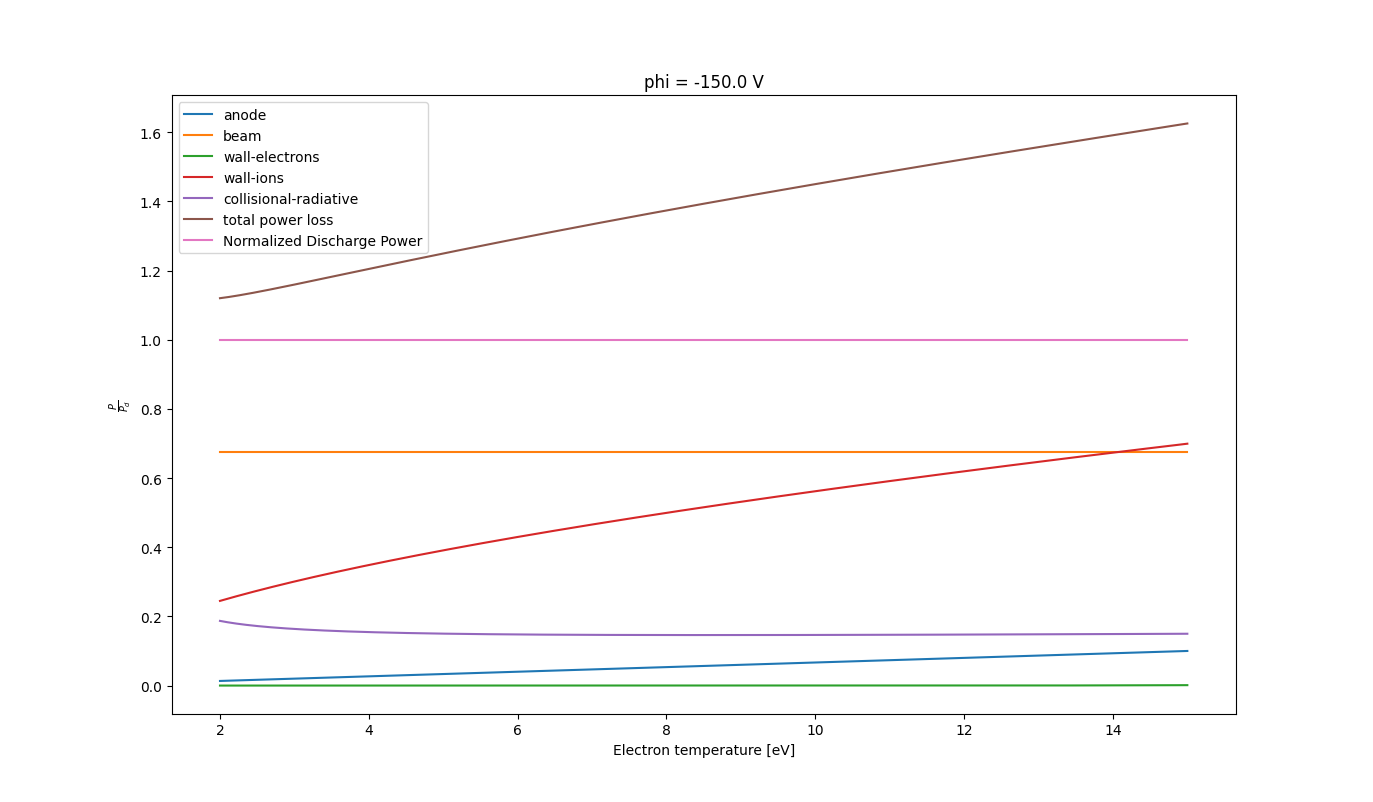
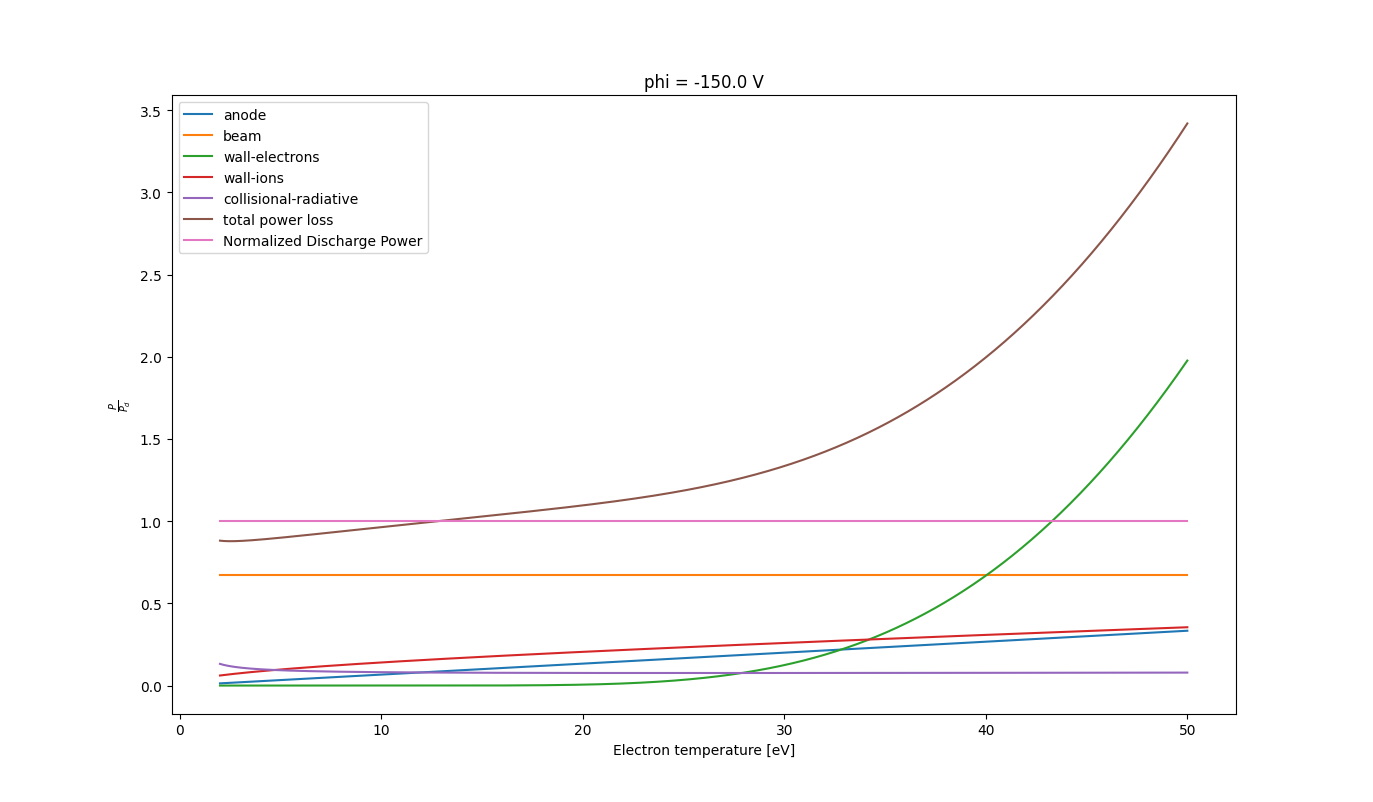
Last Stage for Problem 2

diff --git a/final/main_aa529final.py b/final/main_aa529final.py
@@ -9,6 +9,85 @@ import numpy as np
 import matplotlib.pyplot as plt
 """ Problem 2 """
 phiS_minus_phiP = np.asarray([-50.0,-100.0,-150.0,-200.0]) # [V] - electrostatic potential difference between sheath (S) and plasma (P)
-Te = np.asarray([5.5, 1.0, 1.0, 1.0]) # [eV] - determined empirically
+Te = np.asarray([12.5, 16.5, 12.5, 10.0]) # [eV] - determined empirically
+
+k_B = 1.38e-23 # [J/degK]
+e = 1.6e-19
+
+eV_to_degK = 11600.0 # 1 eV = this many degK
+Joules_to_eV = (1.0/1.6)*(1.0e19)
+amu_to_kg = 1.67e-27
+cm_to_m = 1.0e-2
+
+m_e = 9.11e-31 # [kg]
+m_i = 131.0*amu_to_kg # [kg]<-[amu] Xenon atomic mass
+n_s = 0.25e12/(cm_to_m**3) # [m^-3]<-[cm^-3] Quasineutral sheath density
+
+r_out = 7.0*cm_to_m # [m]<-[cm]
+r_in = 3.0*cm_to_m # [m]<-[cm]
+L = 4.0*cm_to_m # [m]<-[cm] Length of the plasma channel
+A_w = 2.0*np.pi*L*(r_in + r_out) # [m] Total area of the wall
+
+eta_current = 0.75
+eta_voltage = 0.90
+I_d = 10.0 # [A]
+V_d = 300.0 # [V]
+I_b = eta_current*I_d
+V_b = eta_voltage*V_d
+P_d = I_d * V_b
+
+P_we = np.zeros(phiS_minus_phiP.size)
+P_wi = np.zeros(phiS_minus_phiP.size)
+P_w = np.zeros(phiS_minus_phiP.size)
+E_ions = np.zeros(phiS_minus_phiP.size)
+
+idx = 0
+Te_vs_Phi = plt.figure()
+Pwe_vs_Phi = plt.figure()
+Pwi_vs_Phi = plt.figure()
+Pw_vs_Phi = plt.figure()
+Eion_vs_Phi = plt.figure()
+for phi in phiS_minus_phiP:
+    v_is = np.sqrt((k_B*eV_to_degK*Te[idx])/m_i)
+    P_we[idx] = 0.25*np.sqrt((8.0*k_B*eV_to_degK*Te[idx])/(np.pi*m_e))*n_s*A_w \
+    *np.exp((e*phi)/(k_B*eV_to_degK*Te[idx]))*2.0*k_B*eV_to_degK*Te[idx]
+    P_wi[idx] = n_s*v_is*A_w*(0.5*m_i*v_is**2 - e*phi)
+    P_we[idx] = P_we[idx]/P_d
+    P_wi[idx] = P_wi[idx]/P_d
+    P_w[idx] = P_we[idx] + P_wi[idx]
+    E_ions[idx] = Joules_to_eV*k_B*eV_to_degK*Te[idx]*(0.5 + np.log(np.sqrt((2.0*m_i)/(np.pi*m_e))))
+
+plt.figure(Te_vs_Phi.number)
+plt.scatter(phiS_minus_phiP,Te)
+plt.xlabel('$\phi_{s} - \phi_{p}$ [V]')
+plt.ylabel('Electron Temperature [eV]')
+plt.title('Electron Temperature')
+
+plt.figure(Pwe_vs_Phi.number)
+plt.scatter(phiS_minus_phiP,P_we)
+plt.xlabel('$\phi_{s} - \phi_{p}$ [V]')
+plt.ylabel('$\\frac{P_{w,e}}{P_{d}}$')
+plt.title('Wall loss - electrons')
+
+plt.figure(Pwi_vs_Phi.number)
+plt.scatter(phiS_minus_phiP,P_wi)
+plt.xlabel('$\phi_{s} - \phi_{p}$ [V]')
+plt.ylabel('$\\frac{P_{w,i}}{P_{d}}$')
+plt.title('Wall loss - ions')
+
+plt.figure(Pw_vs_Phi.number)
+plt.scatter(phiS_minus_phiP,P_w)
+plt.xlabel('$\phi_{s} - \phi_{p}$ [V]')
+plt.ylabel('$\\frac{P_{w}}{P_{d}}$')
+plt.title('Total Wall losses')
+
+print(E_ions)
+plt.figure(Eion_vs_Phi.number)
+plt.scatter(phiS_minus_phiP,E_ions)
+plt.xlabel('$\phi_{s} - \phi_{p}$ [V]')
+plt.ylabel('Ion energy [eV]')
+plt.title('Energy of wall bombardment')
 
 """ Problem 3 """
+
+plt.show()

diff --git a/final/test_aa529final.py b/final/test_aa529final.py
@@ -19,11 +19,11 @@ amu_to_kg = 1.67e-27 # 1 amu = this many kg
 
 # phiS_minus_phiP = np.asarray([-50.0,-100.0,-150.0,-200.0]) # [V]
 phiS_minus_phiP = np.asarray([-200.0]) # <- Debugging why the total power explodes
-Te = np.linspace(2.0,15.0,1000) # [eV] thermal energy of the electrons
+Te = np.linspace(2.0,50.0,1000) # [eV] thermal energy of the electrons
 
 m_e = 9.11e-31 # [kg]
 m_i = 131.0*amu_to_kg # [kg]<-[amu] Xenon atomic mass
-n_s = 1.0e12/(cm_to_m**3) # [m^-3]<-[cm^-3] Quasineutral sheath density
+n_s = 0.25e12/(cm_to_m**3) # [m^-3]<-[cm^-3] Quasineutral sheath density
 
 r_out = 7.0*cm_to_m # [m]<-[cm]
 r_in = 3.0*cm_to_m # [m]<-[cm]
@@ -45,7 +45,7 @@ P_a = 2.0*I_d*(k_B*eV_to_degK*Te)/e # [W] = [J s^-1] = [A*J*degK^-1*degK*C^-1] P
 v_is = np.sqrt(k_B*eV_to_degK*Te/m_i) # [m/s] = sqrt([J*kg^-1])
 I_iw = n_s*v_is*e*A_w # [A] = [C*s^-1] = [m^-3*m*s^-1*C*m^2]
 UI_Star = fmod.UIstar(Te) # [eV] Effective ionization energy
-UIStarFig = plt.figure()
+# UIStarFig = plt.figure()
 # PR_plus_Pion = (1.0/e)*UI_Star*(I_b + I_iw) # Power losses due to radiation and ionization
 PR_plus_Pion = np.empty(Te.size)
 
